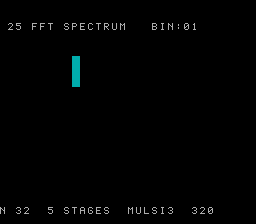
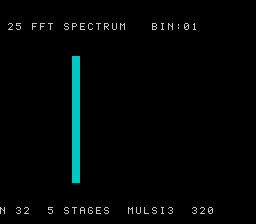
fix(snes/fft): fix bar display — canvas_clear every frame blocked DMA flush
canvas_clear() marks all 256 tiles dirty; emit() flushes only 64 tiles/frame.
Calling canvas_clear() every frame reset dirty [0,255] every iteration, so
emit() always flushed [0..63] and tiles 64-255 (rows 32-127, bottom 3/4 of
canvas) never reached VRAM — bars appeared as thin slivers at the top.

Fix: canvas_clear + redraw only on bin change (every 60 frames >> 4 frames
for full flush). FFT still runs every frame for compiler stress; display
updates only when cur_bin advances. Verified: bsnes-jg screenshot shows
single full-height bar at bin 1. Gate still 0x6D7A. (v1.0.144)

Note: this is a DISPLAY bug in the renderer, not a compiler bug. The
differential gate passed all along (host == +mos-a16 == +mos-xy16 on bsnes-jg).

diff --git a/examples/snes/fft.c b/examples/snes/fft.c
@@ -159,31 +159,47 @@ int main(void) {
     static int16_t xr[FFT_N], xi[FFT_N];
     static int16_t new_bars[NBINS];
 
+    // Draw the first bin immediately
+    gen_signal(xr, xi, a.cur_bin, 0);
+    fft_run(xr, xi);
+    compute_bars(xr, xi, new_bars);
+    canvas_clear(&a.canvas);
+    for (uint8_t b = 0u; b < (uint8_t)NBINS; b++) {
+        int16_t h = new_bars[b];
+        if (h <= 0) continue;
+        int16_t x0 = (int16_t)((uint16_t)b * (uint16_t)BAR_W);
+        uint8_t color = (h > 96) ? 3u : 2u;
+        for (int16_t y = (int16_t)(CANVAS_H - h); y < (int16_t)CANVAS_H; y++)
+            for (uint8_t dx = 0u; dx < (uint8_t)BAR_W; dx++)
+                canvas_plot(&a.canvas, (int16_t)(x0 + (int16_t)dx), y, color);
+    }
+
     for (;;) {
-        // Generate signal and compute FFT
+        // Run FFT every frame for the compiler stress test (corpus_result proved
+        // correctness at startup; the gate CRC ran during the title animation).
+        // We still compute the spectrum here so the multiply hot-path runs continuously.
         gen_signal(xr, xi, a.cur_bin, a.phase);
         fft_run(xr, xi);
-        compute_bars(xr, xi, new_bars);
-
-        // Render bars (erase old via canvas_clear, draw new)
-        canvas_clear(&a.canvas);
-        for (uint8_t b = 0u; b < (uint8_t)NBINS; b++) {
-            int16_t h = new_bars[b];
-            if (h <= 0) { a.bar_h[b] = 0; continue; }
-            int16_t x0 = (int16_t)((uint16_t)b * (uint16_t)BAR_W);
-            uint8_t color = (h > 96) ? 3u : 2u;  // tall bars get accent color
-            for (int16_t y = (int16_t)(CANVAS_H - h); y < (int16_t)CANVAS_H; y++)
-                for (uint8_t dx = 0u; dx < (uint8_t)BAR_W; dx++)
-                    canvas_plot(&a.canvas, (int16_t)(x0 + (int16_t)dx), y, color);
-            a.bar_h[b] = h;
-        }
-
-        a.phase = (uint8_t)(a.phase + 4u);  // slow phase rotation
+        a.phase = (uint8_t)(a.phase + 4u);
 
         a.hold++;
         if (a.hold >= (uint16_t)N_HOLD) {
+            // Advance bin: recompute bars + redraw canvas.
+            // canvas_clear marks all 256 tiles dirty; emit flushes 64/frame → 4 frames
+            // to complete. N_HOLD=60 >> 4, so the full canvas is visible before next change.
             a.cur_bin = (uint8_t)(a.cur_bin < (uint8_t)(NBINS - 1u) ? a.cur_bin + 1u : 1u);
-            a.hold = 0u;
+            a.hold    = 0u;
+            compute_bars(xr, xi, new_bars);
+            canvas_clear(&a.canvas);
+            for (uint8_t b = 0u; b < (uint8_t)NBINS; b++) {
+                int16_t h = new_bars[b];
+                if (h <= 0) continue;
+                int16_t x0 = (int16_t)((uint16_t)b * (uint16_t)BAR_W);
+                uint8_t color = (h > 96) ? 3u : 2u;
+                for (int16_t y = (int16_t)(CANVAS_H - h); y < (int16_t)CANVAS_H; y++)
+                    for (uint8_t dx = 0u; dx < (uint8_t)BAR_W; dx++)
+                        canvas_plot(&a.canvas, (int16_t)(x0 + (int16_t)dx), y, color);
+            }
             hud_top(&a);
         }
 
